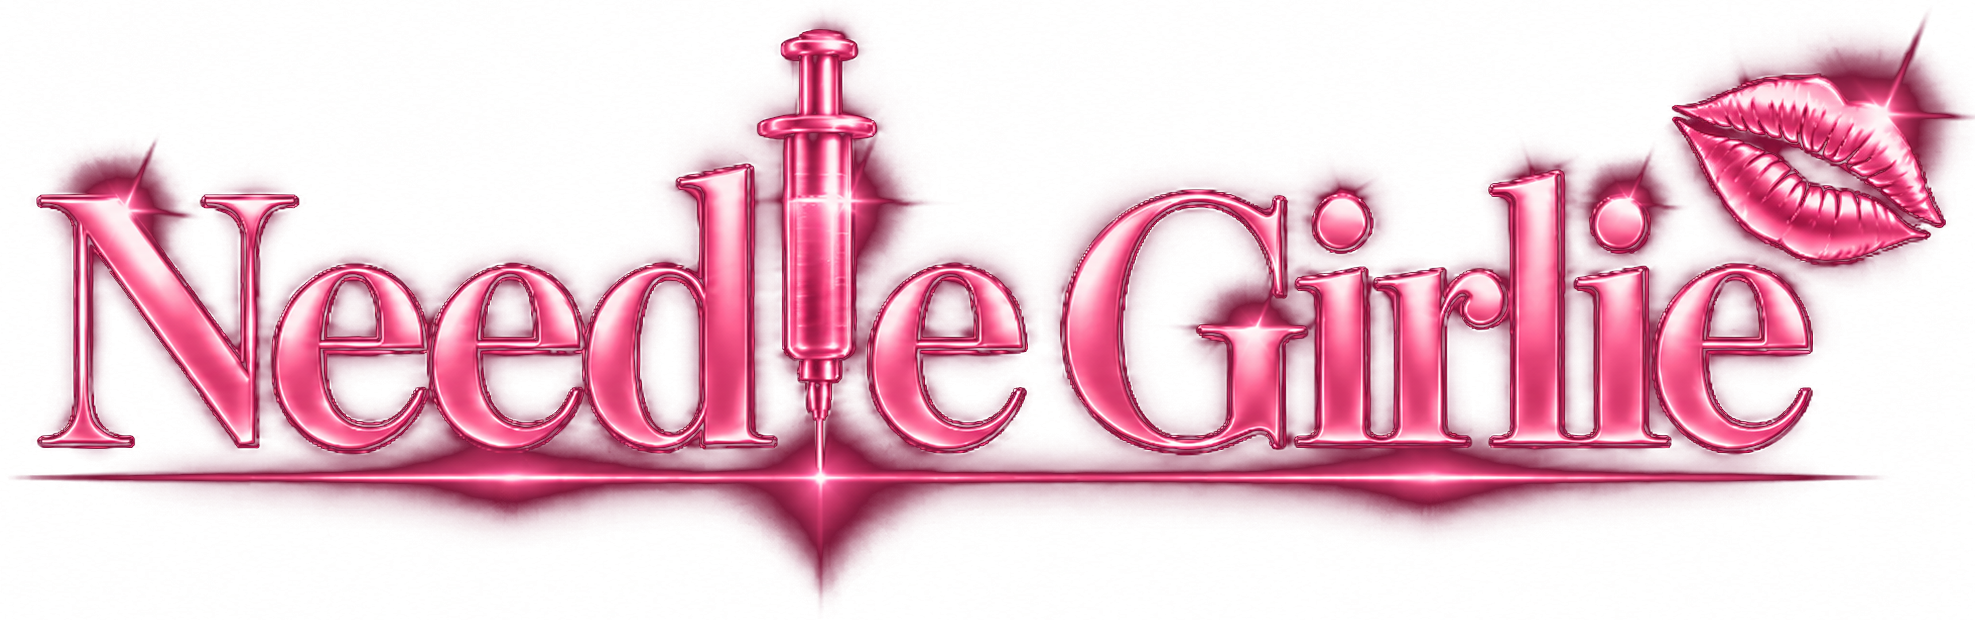
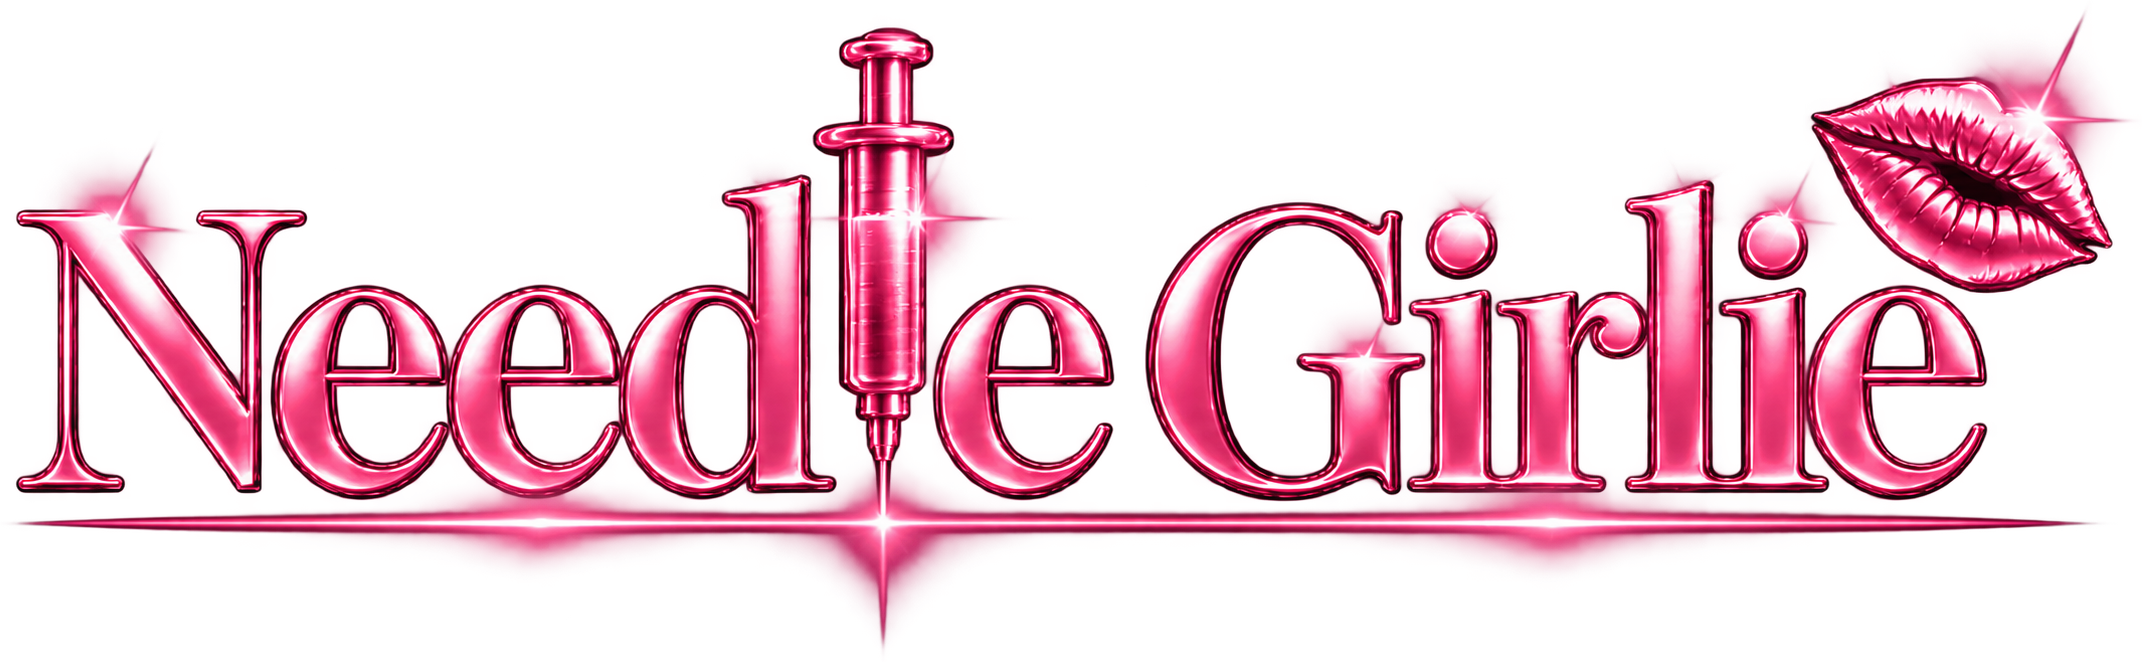
feat(brand): the creator's transparent export is the master; keyed route withdrawn
The third file's keyed derivatives failed the Lighthouse LCP budget on
four pages (a keyed glow encodes 2-3x heavier); the creator supplied a
transparent-background export of the same artwork (2172x724 RGBA) and
it is the master in place. Wordmark crop 2142x662, aspect 3.236,
crop-only proven (max diff 0); header tiers 29/46/80KB; the styleguide
sign back at its 1040px cap with the 2080 tier. Lips crop 333x265 at
(1839,66). Keying stays in derive-logo.mjs as a documented capability;
BRAND-ASSETS and BUILD_SPEC say to ask for transparent exports. Verify
green on both trees with the exit lines read (DECISIONS, the third
addendum, records the earlier unread-failure push).

diff --git a/docs/BRAND-ASSETS.md b/docs/BRAND-ASSETS.md
@@ -5,32 +5,30 @@
 The logo is the client's delivery of 2026-09-15: the same "Needle Girlie"
 composition as before (the serif wordmark, the syringe standing in for the
 second "l", the lips at the top right) re-rendered as glossy metallic pink
-with a soft glow. The third delivery of the day is archived byte-identical
-in this repo (DECISIONS 2026-09-15 and its two same-day addenda; two
-earlier files, both transparent-background, were withdrawn for their colour
-before anything merged):
+with a soft glow. The creator's transparent-background export — the fourth
+file of the day — is archived byte-identical in this repo (DECISIONS
+2026-09-15 and its three same-day addenda; the three earlier files were
+withdrawn before anything merged — two for colour, one because it arrived
+on solid black and its keyed derivatives blew the image budgets):
 
 | File | Facts | Role |
 |---|---|---|
[2 lines of base64/hex data omitted]
 
 **Never redraw, restyle, trace, or AI-upscale the logo** (BUILD_SPEC §3).
 Variants are *crops* of the master (plus a black tile for the favicons) —
-never a resample of the wordmark, never a colour edit. Because this master
-was delivered on solid black, the script first keys the black to alpha: a
-luminance key with a solid core — alpha = min(1, 2·max(R,G,B)/255), colour
-un-premultiplied — which composited over #000 gives back the delivered
-pixels exactly (proven on the committed derivative: max channel difference
-1, from rounding). Every surface the mark sits on is pure #000, so on the
-site the keyed mark IS the delivered mark; on any other surface the
-letterforms stay opaque and the glow keeps its soft falloff. A master
-delivered with alpha bypasses the step. There is no vector source; a vector
-version would be a redraw and is not produced.
+never a resample of the wordmark, never a colour or alpha edit (proven on
+the committed derivative: max channel difference 0 against the master
+extract). There is no vector source; a vector version would be a redraw and
+is not produced. Ask the creator for a transparent-background PNG (RGBA) at
+≥2200px wide; never a file on solid black — `derive-logo.mjs` CAN key black
+to alpha (exact over #000), but the keyed glow encodes 2–3× heavier and
+broke the Lighthouse image and LCP budgets when tried on 2026-09-15.
 
-The keyed master composites cleanly on the site's noir surfaces (the
-header, footer, hero band, and 404 are pure #000) and acceptably on white,
-so no per-surface variant is needed. The alpha channel is load-bearing:
-the home page's neon switch-on
+The master composites cleanly on the site's noir surfaces (the header,
+footer, hero band, and 404 are pure #000) and acceptably on white, so no
+per-surface variant is needed. Its alpha channel is load-bearing: the home
+page's neon switch-on
 (`public/js/home-motion.js`) and the styleguide sign's aura
 (`src/styles/global.css`) apply `drop-shadow()` to the image's silhouette,
 which must be the letterforms, not a rectangle.
@@ -52,21 +50,21 @@ One deterministic run writes every committed derivative from the master:
 
 | Output | What it is |
 |---|---|
-| `src/assets/brand/needle-girlie-wordmark-metallic-alpha.png` | the wordmark: the keyed master cropped to its alpha≥16 bounds (1963×596 at x 20, y 82) plus a 12px pad → **1975×620 at (8,70), aspect 3.185**. A cut at ≤6% alpha over noir is below perception, so the glow ends inside the image with no box edge. The script asserts ≥1920px wide (the styleguide sign's 2× tier at its 960px cap) — no consumer's largest srcset tier is ever upscaled. |
-| `public/favicon.ico` | 16/32/48 px PNG entries in an ICO container the script writes itself (no dependency): the **lips** (master rect 313×237 at (1670,95)) scaled to 84% of a black tile |
+| `src/assets/brand/needle-girlie-wordmark-metallic-alpha.png` | the wordmark: the master cropped to its alpha≥16 bounds (2120×638 at x 42, y 58) plus a 12px pad → **2142×662 at (30,46), aspect 3.236**. A cut at ≤6% alpha over noir is below perception, so the glow ends inside the image with no box edge. The script asserts ≥2080px wide (the styleguide sign's 2× tier at its 1040px cap) — no consumer's largest srcset tier is ever upscaled. |
+| `public/favicon.ico` | 16/32/48 px PNG entries in an ICO container the script writes itself (no dependency): the **lips** (master rect 333×265 at (1839,66)) scaled to 84% of a black tile |
 | `public/icons/apple-touch-icon.png` | the same tile at 180×180 |
 
 The favicon glyph is the lips, not the syringe: the syringe column is
 flanked by the "d" and "e" glow and the baseline streak, and at 16px it is a
-~5px sliver. The lips isolate almost cleanly: the "i" dot ends at x=1652
-and the lips' tip begins at 1680, but the lower lip's lowest point (y=336,
-at x≈1810) sits level with the top of the final "e" (y=332, x 1685–1820),
-so the cut at y=332 keeps the "e" out at the cost of the lip's bottom five
-rows — ~2% of the tile, invisible at 16–180px. The script asserts the
-lower-left edge zones carry no solid letter pixel (alpha ≥250, i.e. source
-luma ≥125 — a letter body, not the keyed glow halo). `--glyph=syringe`,
-`--candidates=<dir>`, and `--measure` (prints the lips neighbourhood)
-exist for placing and comparing.
+~5px sliver. The lips isolate almost cleanly: the "i" dot's solid pixels
+end at x=1836 and the lips' tip begins at 1841; under the lips the lower
+lip's edge runs 15–24px above the top of the final "e" except at the far
+right, where the lip reaches y=338 while the "e" begins at 331, so the cut
+at y=331 keeps the "e" out at the cost of ≤8px off the lower lip's
+right-bottom edge — ~3% of the tile, invisible at 16–180px. The script
+asserts the lower-left edge zones carry no solid letter pixel (alpha ≥250).
+`--glyph=syringe`, `--candidates=<dir>`, and `--measure` (prints the lips
+neighbourhood) exist for placing and comparing.
 
 `sharp` is reached through `createRequire`, as `export-logo.mjs` did: it is
 an optional transitive dependency of `astro`, not a declared one. The script
@@ -79,19 +77,19 @@ step.
 |---|---|---|
 | `src/components/Header.astro` | wordmark | `width={440} widths={[440,600,880]}` + `sizes` mirroring the two clamps — a phone fetches the tier its slot needs (the 2× file is ~72KB WebP; the image budget is 245KB per page). Rendered width is the header's `--wordmark-w` custom property: `clamp(130px, min(44vw, 100vw - 218px), 300px)` on phones (the cap keeps the mark clear of the Book button below 390px), `clamp(340px, 36vw, 440px)` from 1024px |
 | `src/components/Footer.astro` | wordmark | `width={160} densities={[1,2]}` |
-| `src/components/Hero.astro` (the styleguide sign) | wordmark | `width={960} widths={[480,800,1200,1920]}` + `sizes`, capped at 960px (the 1983px master's 2× limit; the old 1879px lockup allowed 1040) |
+| `src/components/Hero.astro` (the styleguide sign) | wordmark | `width={1040} widths={[480,800,1200,2080]}` + `sizes`, capped at 1040px (the 2172px master covers the 2080 tier) |
 | `src/layouts/BaseLayout.astro` | favicon.ico + apple-touch-icon | two `<link>`s |
 | `main` only — the Under Construction placeholder (`src/pages/index.astro`) | wordmark | `width={780} widths={[480,800,1560]}` (hotfix PR, DECISIONS 2026-09-15) |
 
 Two Astro facts to keep in mind when adding a consumer (Astro 5.18, verified
 in `service.js`): `widths` above the source are clamped to it, but
 `densities` are NOT — sharp will upscale — so every density tier must fit
-inside the derivative's 1975px; and `widths` without an explicit `width`
+inside the derivative's 2142px; and `widths` without an explicit `width`
 makes the `<img src>` fallback the ORIGINAL-width encode, so always pass
 `width`.
 
 The header's nav popover offset below 1024px is derived from the wordmark's
-aspect (`3.185` in `Header.astro`); a future asset with a different aspect
+aspect (`3.236` in `Header.astro`); a future asset with a different aspect
 changes that one number.
 
 ## Retired 2026-09-15 (dormant — kept, not deleted; operator decision)

diff --git a/docs/REDESIGN.md b/docs/REDESIGN.md
@@ -58,7 +58,7 @@ pink."** Seven gaps, each a test every design decision must move:
 | **Home carousel autoplays on phones** — an Android phone reported the band never autoplays; investigated on the #179 preview (bandwidth ruled out on a throttled emulation), the causes were `prefers-reduced-motion` gating the script (Android "Remove animations", iOS Reduce Motion), phones refusing a script-started play() until a touch, and WebKit wanting the `muted` ATTRIBUTE. Operator decisions: the films autoplay under reduced motion too (content with a pause control — the toggle; only the crossfade stands down), a refused play() retries inside the first gesture, the built video carries the attributes. ~0.6KB more script | **Merged into `phase-c`** 2026-09-03 (operator: "Go ahead and merge #180"; after #182, via a merge of phase-c) | DECISIONS 2026-09-03; CLAUDE.md script list; BUILD_SPEC §9 |
 | **Home: scale, rhythm, and four new moves** — the 2026-09-03 design critique's Tier 1 + 2 (operator: "boring" → mockup approved → "create what you are proposing"): at ≥900px the hero photo bleeds toward a full-clamp headline over a one-sentence lead (copy on solid noir — the plate rule kept), the carousel band composed (the recorded heading as two display-1 lines + the controls beside the film — WITHDRAWN 2026-09-04 at the operator's direction, "look like what we have in PR #149": the band is phase-c's again, the slide settle with it; the slide order briefly put Amy's films first and was restored to the recorded J1 → studio → J2 → team at the operator's direction the same day), display-size section openers over one-sentence decks (the §6 credentials kept as a compact line), and a new noir statement band ("Amy comes to you." beside the van interior — /mobile's first home-page door; a full-bleed backdrop, the fifth arch exemption) between the doors and the visit beat; the motion vocabulary +4 transform-only moves (settle, drift, stagger, hover-scale; plus the carousel's slide settle), zero JS added; phones unchanged below 900px. Three hero-headline candidates on the PR for Amy. **Concept layer, same day** (the operator lifted the zero-JS rule for this branch as a concept test): self-hosted GSAP 3.15 + Lenis 1.3 — the wordmark's neon switch-on, word-by-word headline and openers, Amy's studio reel (its three treatment passages, looped) in the hero over her portrait, a chevron scroll cue, the scrubbed hero exit, dealt doors, arch reveals, band parallax, a cursor light over noir; off under reduced motion; the home URL's script budget raised 30→80KB on this branch only (a third gate row — the preview workflow gates before it deploys), every other page and budget unchanged | **Merged into `phase-c`** 2026-09-04 (operator: "go ahead and merge #179 and refresh the previews" — with tweaks 4–6: the reel continuous with a portrait beat, the film band back to phase-c's; the branch-scoped lifts became standing decisions: CLAUDE.md's fourth consumer, the home Lighthouse row, the hero-H1 exception; Amy's reaction pending on the standing demo) | DECISIONS 2026-09-03 + addenda and the adoption paragraph; CLAUDE.md locked decisions; BUILD_SPEC §5/§13; global.css motion header; lighthouserc.json; docs/HOME-CONCEPT.md (the working record) |
 | **/mobile — the viewfinder film** — the friends section's film re-shot from Amy's own 1080×1920 clip, sent to the operator directly (a camcorder-viewfinder template burned in; the seated guest's release confirmed on file — no preview-only flag): content-named `van-viewfinder-treatment`, the 24rem-slot recipe (810×1440, 5.39MB), muted because the song is a commercial recording (the operator's listen — music only — is on the record; a sounded cut waits on a license), the wrapper's cap lifted from 18rem to the row's 24rem as the 2026-09-02 entry pre-authorized; the van film's poster and captions deleted, its Blob object deleted once unreferenced; the template's 2.33 s tiled reveal trimmed on the preview at the operator's direction (stem `van-viewfinder-treatment-trim`, 10.1 s). The treatment-film phone-autoplay policy deferred to its own PR | **Merged into `phase-c`** 2026-09-03 (operator approval on the PR #181 preview — "we are good on the music and the merge": the muted rendition stands, no license sought; Amy's reaction pending on the standing demo) | DECISIONS 2026-09-03; BUILD_SPEC §6; CLINICIAN-SIGN-OFF non-gated section |
-| **The new Needle Girlie logo (2026-09-15)** — the client's metallic re-render of the mark (same composition: serif wordmark, syringe "l", lips) replaces the 2026-07 Claude-Design mark in the header, footer, and styleguide sign, all crops of the delivered master — the third delivery of the day, on solid black, keyed to alpha in-repo (exact over the site's black surfaces, proven) — no redraw, no resample; the header's 4.69:1 → 3.19:1 aspect makes the wordmark ~138px tall on desktop (was 94) and the nav popover's offset becomes a formula of that aspect; the first logo-derived favicon set (the lips on a black tile — `favicon.ico` 16/32/48 + apple-touch-icon; the generic "NG" placeholder SVG retired); the live Under Construction placeholder on `main` takes the same mark by hotfix PR the same day; the old masters, derivatives, and exporter stay dormant (operator); OG image + JSON-LD logo remain Phase D; tokens unchanged | **PR open** (into `phase-c`; + the `main` hotfix PR) | DECISIONS 2026-09-15; BRAND-ASSETS rewritten; BUILD_SPEC §3/§5; CLINICIAN-SIGN-OFF pending row |
+| **The new Needle Girlie logo (2026-09-15)** — the client's metallic re-render of the mark (same composition: serif wordmark, syringe "l", lips) replaces the 2026-07 Claude-Design mark in the header, footer, and styleguide sign, all crops of the delivered master — the creator's transparent export, the fourth file of the day (two withdrawn for colour, one on solid black whose keyed derivatives broke the image/LCP budgets) — no redraw, no resample, crop-only proven; the header's 4.69:1 → 3.24:1 aspect makes the wordmark ~136px tall on desktop (was 94) and the nav popover's offset becomes a formula of that aspect; the first logo-derived favicon set (the lips on a black tile — `favicon.ico` 16/32/48 + apple-touch-icon; the generic "NG" placeholder SVG retired); the live Under Construction placeholder on `main` takes the same mark by hotfix PR the same day; the old masters, derivatives, and exporter stay dormant (operator); OG image + JSON-LD logo remain Phase D; tokens unchanged | **PR open** (into `phase-c`; + the `main` hotfix PR) | DECISIONS 2026-09-15; BRAND-ASSETS rewritten; BUILD_SPEC §3/§5; CLINICIAN-SIGN-OFF pending row |
 | **Treatment films take the carousel's phone policy** — `treatment-video.js` no longer bails under prefers-reduced-motion (the films are content with a pause control — the native controls; the 2026-09-03 carousel decision extended to all eight opted-in players on six pages at the operator's direction), a refused play() is retried inside the person's first gesture, and the muted/playsinline attributes are set before the first attempt (the WebKit quirk); ~1.3KB more script, budget untouched. The component, spec, runbook, and the six consumers' comments follow — the two treatment MDX comments in their own content commit | **Merged into `phase-c`** 2026-09-03 (operator approval on the PR #182 preview — "go ahead and merge"; the real-phone check stays theirs) | DECISIONS 2026-09-03; CLAUDE.md script list; BUILD_SPEC §9; RUNBOOK |
 
 ## Carousel record (J1/studio/J2 cleared 2026-08-14; team film 2026-08-17)

diff --git a/docs/DECISIONS.md b/docs/DECISIONS.md
@@ -8716,3 +8716,56 @@ would ship the sign 5% below 2× at that width (the retina hard rule).
 change; both PRs redeploy; every gate and header measurement was
 re-run (numbers in the PR). If a future master arrives with alpha,
 nothing changes but the file.
+
+## 2026-09-15 — Fourth file: the creator's transparent export is the master; the keyed on-black route is withdrawn (same day, before merge)
+
+**Context.** The third delivery's keyed derivatives failed `npm run
+verify` on both branches: the Lighthouse LCP budget (2500ms) by ~57ms
+on /styleguide (the sign is its LCP element), /about and /mobile (a
+text paragraph delayed by the heavier header image under simulated
+throttling), and on the placeholder (the logo is its LCP) — because a
+keyed glow encodes 2–3× heavier than a delivered alpha channel (the
+header's 2× tier went 72KB → 187KB; the alpha plane and the
+un-premultiplied colour noise in the near-black halo both compress
+badly; smoothing the halo colour recovered only a quarter and cost
+round-trip exactness). The operator asked the creator for what the
+assistant specified — a transparent-background PNG, ≥2200px wide, the
+same artwork — and it arrived within the hour.
+
+**Decision.** (1) The creator's export is the master in place
+(2172×724 RGBA, SHA-256
[1 lines of base64/hex data omitted]
+the on-black third file leaves the PR. (2) The wordmark is a pure crop
+again: alpha≥16 bounds 2120×638 at (42,58) plus the 12px pad →
+**2142×662 at (30,46), aspect 3.236** (crop-only proven: max channel
+difference 0); the header's aspect number follows (~136px tall at 440).
+Header tiers 29/46/80KB (440/600/880) — the second master's class,
+which passed. (3) The styleguide sign returns to its 1040px cap with the
+2080 tier; the script's width floor is 2080 again. (4) Lips crop
+333×265 at (1839,66): the "i" dot's solid pixels end at x=1836 and the
+lips' tip begins at 1841 (a four-pixel gap); under the lips the lower
+lip's edge runs 15–24px above the top of the final "e" except at the far
+right, where the lip reaches y=338 while the "e" begins at 331 — the cut
+at y=331 keeps the "e" out at the cost of ≤8px off the lower lip's
+right-bottom edge (~3% of the tile, invisible at 16–180px); the rect
+starts at y=66 to keep the sparkle. (5) The keying step stays in
+`derive-logo.mjs` as a documented capability that a delivered alpha
+channel bypasses; BRAND-ASSETS and BUILD_SPEC §3 now say to ask for
+transparent exports, never files on solid black. (6) The hotfix PR
+carries the identical files.
+
+**Alternatives rejected.** Shipping the keyed master with a trimmed
+invisible tail and a lower WebP quality — untested against the budget
+and, even if it passed, a permanently heavier header on every page for
+no visual gain once a proper export existed. Raising the LCP budget —
+never; the gates only tighten. Serving the keyed master at gain 1 —
+the alpha plane, not the gain, was the cost.
+
+**Consequences.** Both branches were pushed on the failing third-file
+state before the failure was read — the assistant's verify chain did
+not gate on the exit code; the CI runs for those pushes are red and are
+superseded by this commit. Rule going forward, recorded in the working
+memory: never commit or push until the verify log's exit line has been
+read. Docs, `Header.astro`, `Hero.astro`, and the script carry the
+figures; every gate and header measurement was re-run on this master
+(numbers in the PR).

diff --git a/docs/CHANGELOG.md b/docs/CHANGELOG.md
@@ -13,12 +13,13 @@ change lives in `docs/DECISIONS.md`; design specs live in
   pink with a glow — replaces the 2026-07 Claude-Design mark in the
   header and footer of every page and on the styleguide sign. Every
   rendered variant is a crop of the delivered master
-  (`src/assets/brand/source/` — the third delivery of the day, on solid
-  black, keyed to alpha in-repo: exact over the site's black surfaces,
-  proven); nothing is redrawn or resampled. The header wordmark keeps
-  its widths from 390px up but is taller (aspect 3.185 vs 4.69 —
-  ~138px on desktop, was 94), served as 440/600/880 tiers with `sizes`
-  so phones fetch
+  (`src/assets/brand/source/` — the creator's transparent-background
+  export, the fourth file of the day: two earlier ones were withdrawn
+  for colour and one, on solid black, because its keyed derivatives
+  broke the image and LCP budgets), proven pixel-for-pixel; nothing is
+  redrawn or resampled. The header wordmark keeps its widths from
+  390px up but is taller (aspect 3.236 vs 4.69 — ~136px on desktop,
+  was 94), served as 440/600/880 tiers with `sizes` so phones fetch
   the small file. Two header fixes the bolder mark exposed: on the
   tightest phones the wordmark box had overlapped the Book button
   since 2026-08-15 (14px at 360, 2px at 375 — invisible with the old

diff --git a/.claude/BUILD_SPEC.md b/.claude/BUILD_SPEC.md
@@ -85,11 +85,12 @@ As mapped in CLAUDE.md. Additional conventions:
   derived from the logo 2026-09-15), robots.txt (generated), official store
   badges (Phase 4 asset — placeholder only for now).
 - Brand logo source files are provided by the operator — since 2026-09-15 the
-  client's raster master (delivered on solid black; keyed to alpha in-repo,
-  exact over the site's black surfaces), archived in
-  `src/assets/brand/source/` (docs/BRAND-ASSETS.md; DECISIONS same date).
-  Derive favicon/OG variants from it by cropping (`scripts/derive-logo.mjs`);
-  never redraw or restyle the logo.
+  creator's transparent-background raster master (RGBA, 2172px wide),
+  archived in `src/assets/brand/source/` (docs/BRAND-ASSETS.md; DECISIONS
+  same date). Derive favicon/OG variants from it by cropping
+  (`scripts/derive-logo.mjs`); never redraw or restyle the logo. Ask for
+  transparent exports, never files on solid black: keying is possible but
+  its derivatives break the image budgets (DECISIONS 2026-09-15).
 
 ## 4. Technical configuration requirements
 
